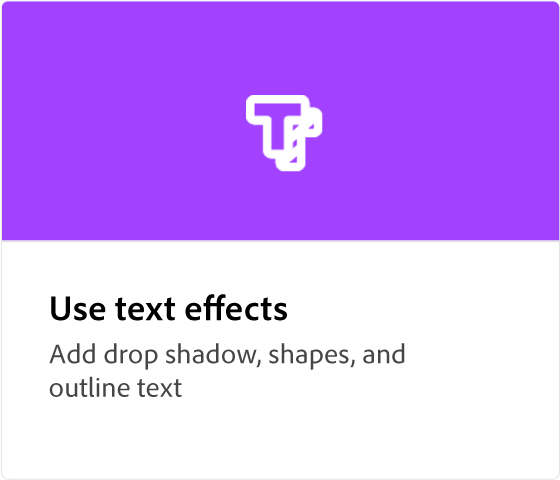
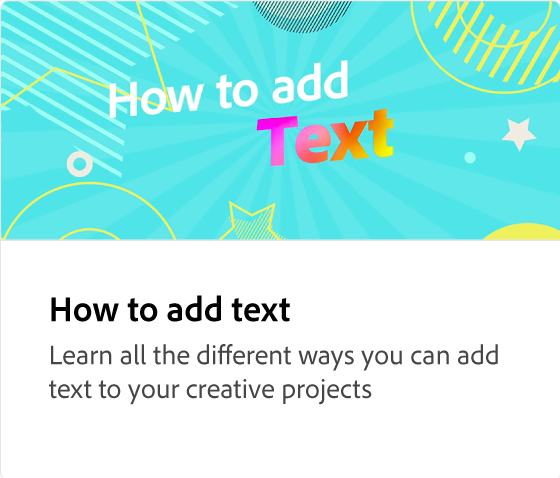
Express tutorials part 2

diff --git a/help/express/overview-express-how-to.md b/help/express/overview-express-how-to.md
@@ -27,14 +27,46 @@ Get started creating amazing work that stands out with generative AI powered by 
       <a href="introduction-templates.md">
          <img alt="Introduction to Quick actions" src="assets/introduction-templates.png" />
       </a>
- </td>
+ </td>     
  <td>
-      <a href="schedule.md">
-         <img alt="Schedule social posts" src="assets/schedule.png" />
+      <a href="brand.md">
+         <img alt="Setting up a brand kit" src="assets/brand.png" />
       </a>
   </td>
 </tr>
 <tr>
+   <td>
+      <a href="new-project.md">
+         <img alt="Starting a project" src="assets/starting-a-project.png" />
+      </a>
+  </td>
+   <td>
+      <a href="workspace.md">
+         <img alt="UX of a project" src="assets/workspace.png" />
+      </a>
+  </td>
+  <td>
+      <a href="text-effects.md">
+         <img alt="How to add text" src="assets/text-effects.png" />
+      </a>
+  </td>
+  <td>
+      <a href="image-effects.md">
+         <img alt="How to add an image" src="assets/image-effects.png" />
+      </a>
+  </td>
+</tr>
+<tr>
+   <td>
+      <a href="add-gen-ai-image.md">
+         <img alt="How to add a Gen AI image" src="assets/gen-ai-image.png" />
+      </a>
+  </td>
+  <td>
+      <a href="schedule.md">
+         <img alt="Schedule social posts" src="assets/schedule.png" />
+      </a>
+  </td>
   <td>
    <a href="collaborate.md">
       <img alt="Invite project collaborators" src="assets/collaborate.png" />
@@ -45,7 +77,9 @@ Get started creating amazing work that stands out with generative AI powered by 
          <img alt="Get quick inspiration" src="assets/inspiration.png" />
       </a>
   </td>
-  <td>
+</tr>
+<tr>
+   <td>
    <a href="create-templates.md">
       <img alt="Create templates" src="assets/templates.png" />
    </a>
@@ -55,8 +89,6 @@ Get started creating amazing work that stands out with generative AI powered by 
             <img alt="Add design assets" src="assets/design-assets.png" />
          </a>
  </td>
-</tr>
-<tr>
   <td>
          <a href="group-objects.md">
             <img alt="Group objects" src="assets/group-objects.png" />
@@ -67,7 +99,9 @@ Get started creating amazing work that stands out with generative AI powered by 
             <img alt="Select and move layers" src="assets/layers.png" />
          </a>
    </td>
-  <td>
+</tr>
+<tr>
+   <td>
       <a href="multiple-pages.md">
          <img alt="Create multiple pages" src="assets/multiple-pages.png" />
       </a>
@@ -77,16 +111,9 @@ Get started creating amazing work that stands out with generative AI powered by 
          <img alt="Undo and redo" src="assets/undo-redo.png" />
       </a>
    </td>
-</tr>
-<tr>
   <td>
       <a href="cc-libraries.md">
          <img alt="Use CC Libraries" src="assets/cc-libraries.png" />
-      </a>
-  </td>
-   <td>
-      <a href="brand.md">
-         <img alt="Apply your brand" src="assets/brand.png" />
       </a>
   </td>
    <td>
@@ -94,29 +121,24 @@ Get started creating amazing work that stands out with generative AI powered by 
          <img alt="Google Drive integration" src="assets/google-drive.png" />
       </a>
   </td>
-  <td>
-      <a href="remove-background.md">
-         <img alt="Remove background" src="assets/background.png" />
-      </a>
-  </td>
-  </tr>
+</tr>
 <tr>
-  <td>
-      <a href="text-effects.md">
-         <img alt="Use text effects" src="assets/text-effects.png" />
-      </a>
-  </td>
-  <td>
-      <a href="image-effects.md">
-         <img alt="Use image effects" src="assets/image-effects.png" />
-      </a>
-  </td>
+   <td>
+         <a href="remove-background.md">
+            <img alt="Remove background" src="assets/background.png" />
+         </a>
+   </td>
   <td>
          <a href="create-curved-text.md">
             <img alt="Create curved text" src="assets/curved-text.png" />
          </a>
    </td>
   <td>
+      <img alt="Spacer" src="../assets/Whitespacer.png" />
+      <div>
+      <br>
+   </td>
+   <td>
       <img alt="Spacer" src="../assets/Whitespacer.png" />
       <div>
       <br>

diff --git a/help/TOC.md b/help/TOC.md
@@ -36,6 +36,12 @@ auto-video-transcripts: true
     + [What's on the Home Page](express/get-started.md)
     + [Introduction to Quick actions](express/quick-actions.md)
     + [Introduction to templates](express/introduction-templates.md)
+    + [Setting up a brand kit](express/brand.md)
+    + [Starting a project](express/new-project.md)
+    + [UX of a project](express/workspace.md)
+    + [How to add text](express/text-effects.md)
+    + [How to add an image](express/image-effects.md)
+    + [How to add a Gen AI image](express/add-gen-ai-image.md)
     + [Schedule social posts](express/schedule.md)
     + [Invite project collaborators](express/collaborate.md)
     + [Get quick inspiration](express/get-inspiration.md)
@@ -46,11 +52,9 @@ auto-video-transcripts: true
     + [Create multiple pages](express/multiple-pages.md)
     + [Undo and redo](express/undo-redo.md)
     + [Use CC Libraries](express/cc-libraries.md)
-    + [Apply your brand](express/brand.md)
     + [Google Drive integration](express/google-drive.md)
     + [How to remove a background from a photo in one click](express/remove-background.md)
     + [Refine a cutout](express/refine-cutout.md)
-    + [Use text effects](express/text-effects.md)
     + [How to add effects and adjustments to a photo](express/image-effects.md)
     + [Create curved text](express/create-curved-text.md)
   + Use case tutorials {#expressusecase}

diff --git a/help/express/image-effects.md b/help/express/image-effects.md
@@ -1,13 +1,14 @@
 ---
-title: How to add effects and adjustments to a photo
-description: Discover the endless possibilities by adding photo effects and adjustments
+title: How to Add an Image
+description: Discover the endless possibilities by adding image effects and adjustments
 feature: Image Editing
 role: User
 level: Beginner
+jira: KT-13411
 exl-id: d048d1ce-9f87-4257-a3a2-eeb56232c8f8
 ---
-# How to add effects and adjustments to a photo
+# How to add an image
 
-Learn how to add effects and adjustments to a photo.
+Learn all the different ways you can add an image and image effects to your creative projects.
 
->[!VIDEO](https://video.tv.adobe.com/v/3423770?quality=12&learn=on&hidetitle=true)
+>[!VIDEO](https://video.tv.adobe.com/v/3420226?quality=12&learn=on&hidetitle=true)

diff --git a/help/express/brand.md b/help/express/brand.md
@@ -1,13 +1,14 @@
 ---
-title: Apply your Brand
-description: Learn how to add your logo and brand color to any template
+title: Setting up a Brand Kit
+description: Learn how to create a collection of brand assets for your business or personal projects
 feature: Graphic Design
 role: User
 level: Beginner
+jira: KT-13417
 exl-id: 770172e2-2cd4-4333-81bf-8b1af6eef1c0
 ---
-# Apply your brand
+# Setting up a brand kit
 
-Learn how to add your logo and brand color to any template.
+Learn how to create a collection of brand assets to create consistent and professional designs for your business or personal projects.
 
 >[!VIDEO](https://video.tv.adobe.com/v/3420218?quality=12&learn=on&hidetitle=true)

diff --git a/help/express/text-effects.md b/help/express/text-effects.md
@@ -1,13 +1,14 @@
 ---
-title: Use Text Effects
-description: Learn how to add drop shadows, shapes, and outline text
+title: How to Add Text
+description: Learn all the different ways you can add text to your creative projects
 feature: Graphic Design
 role: User
 level: Beginner
+jira: KT-13421
 exl-id: 38a01482-11c9-4117-8626-59679eca2c4f
 ---
-# Use text effects
+# How to add text
 
-Learn how to add drop shadows, shapes, and outline text.
+Learn all the different ways you can add text and text effects to your creative projects.
 
 >[!VIDEO](https://video.tv.adobe.com/v/3420222?quality=12&learn=on&hidetitle=true)

diff --git a/help/express/add-gen-ai-image.md b/help/express/add-gen-ai-image.md
@@ -1,0 +1,13 @@
+---
+title: How to Add a Gen AI Image
+description: Discover how to add generative AI images, powered by Adobe Firefly, to your creative projects
+feature: Image Editing, Gen AI
+role: User
+level: Beginner
+jira: KT-14824
+---
+# How to add a Gen AI Image
+
+Discover how to add generative AI images, powered by Adobe Firefly, to your creative projects.
+
+>[!VIDEO](https://video.tv.adobe.com/v/3426933?quality=12&learn=on&hidetitle=true)

diff --git a/help/express/new-project.md b/help/express/new-project.md
@@ -1,0 +1,13 @@
+---
+title: Starting a Project
+description: Learn how to create a brand new project starting from scratch
+feature: Graphic Design
+role: User
+level: Beginner
+jira: KT-14822
+---
+# Starting a project
+
+Learn how to create a brand new project starting from scratch.
+
+>[!VIDEO](https://video.tv.adobe.com/v/3426931?quality=12&learn=on&hidetitle=true)

diff --git a/help/express/workspace.md b/help/express/workspace.md
@@ -1,0 +1,13 @@
+---
+title: UX of a Project
+description: Learn how to navigate the workspace in Adobe Express
+feature: Graphic Design
+role: User
+level: Beginner
+jira: KT-14823
+---
+# UX of a project
+
+Learn how to navigate the workspace in Adobe Express.
+
+>[!VIDEO](https://video.tv.adobe.com/v/3426932?quality=12&learn=on&hidetitle=true)
